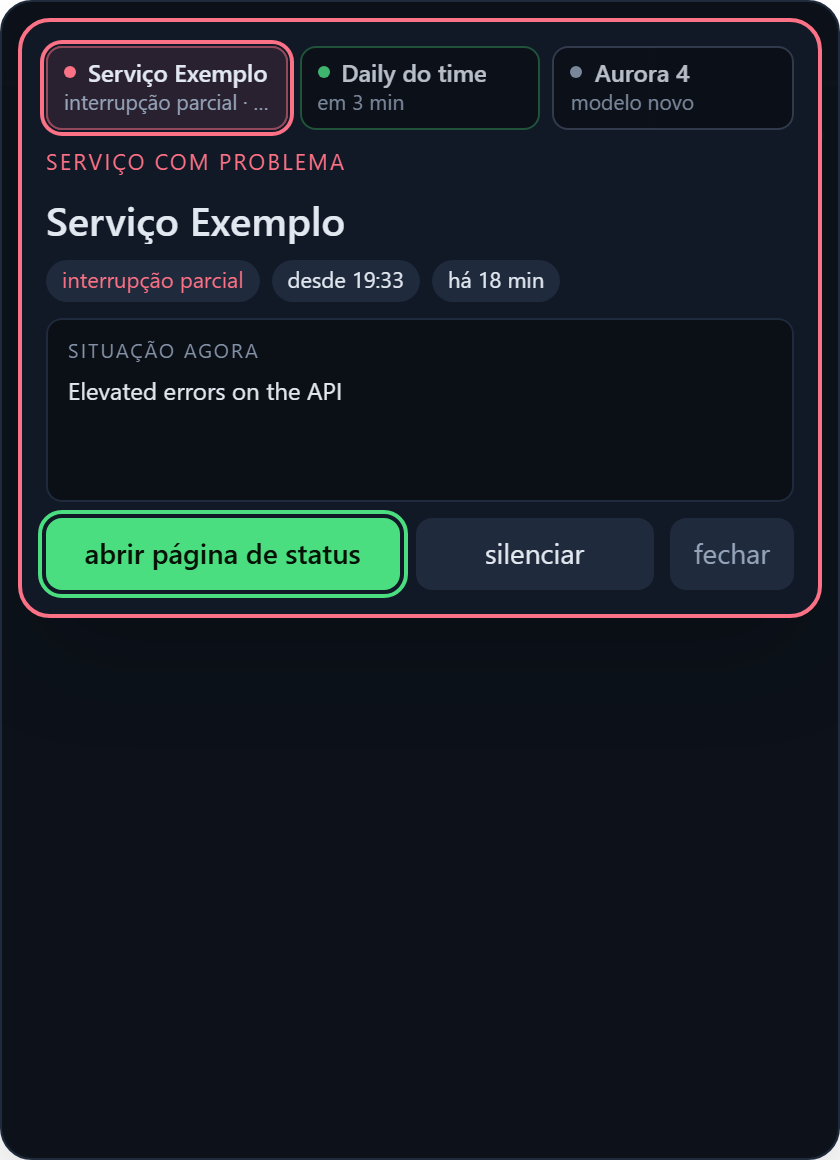
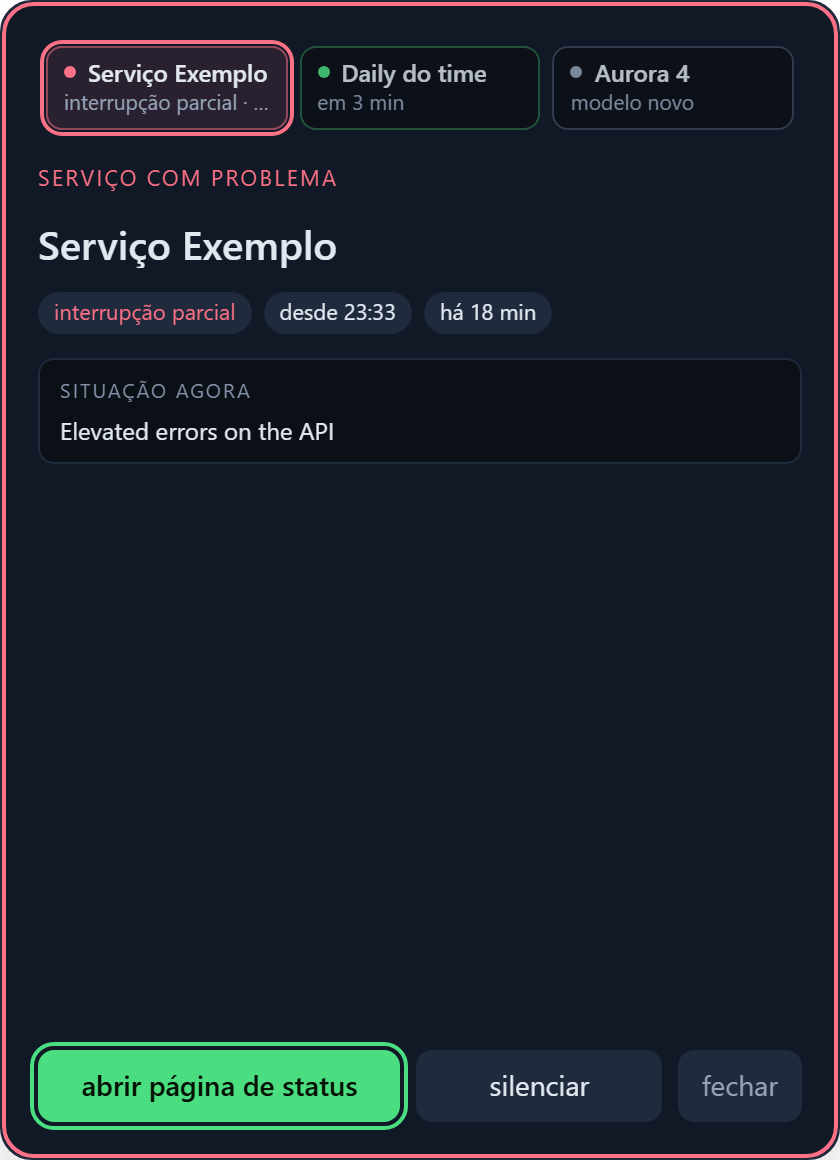
feat(agenda): Meetings as a sub-tab, Day lanes for overlaps, model links, full-size alert popup (#56)
* feat(agenda): move Meetings into the Agenda as a sub-tab beside List and Day

Meetings (Gemini notes and local transcripts) is a view of the same day
the Agenda already covers, and the tab bar was out of room. It is now a
third sub-view of the Agenda, remembered like List/Day; the agenda-only
header and free-time line hide while it is open. The standalone tab and
its i18n key are gone, and the Alt+N shortcuts after it shift by one.

Claude-Session: https://claude.ai/code/session_01WuY79FRLGWaqoBNqVoFE2G

* feat(ui): model rows link out, Day lanes for overlaps, full-size alert popup

- Models: a row opens that model's page on Artificial Analysis (the id
  is the site's own slug).
- Day view: overlapping blocks split the width into lanes instead of
  stacking on top of each other.
- Alert popup: back to covering the widget, keeping the mini-card design.

Claude-Session: https://claude.ai/code/session_01WuY79FRLGWaqoBNqVoFE2G

---------

Changed region(s): [[0.0, 0.0, 1.0, 1.0], [0.8357, 0.4655, 0.9286, 0.4966], [0.5881, 0.4655, 0.681, 0.4966]]

diff --git a/src/components/ModelItem.tsx b/src/components/ModelItem.tsx
@@ -1,5 +1,5 @@
-import type { ModelRow } from "../lib/api";
-import { barWidth, formatPrice, formatScore, formatSpeed } from "../lib/models";
+import { api, type ModelRow } from "../lib/api";
+import { barWidth, formatPrice, formatScore, formatSpeed, modelUrl } from "../lib/models";
 import { t } from "../i18n";
 
 /** One ranked model: the bar is relative to the best score on screen, not to 100. */
@@ -7,31 +7,38 @@ export default function ModelItem({ row, max }: { row: ModelRow; max: number }) 
   const top = row.rank <= 3;
   const score = formatScore(row.score);
   return (
-    <li data-model={row.id} className="flex items-start gap-2 rounded-lg px-1.5 py-1.5 hover:bg-edge/40">
-      <span className={`w-7 shrink-0 pt-px text-right text-[11px] tabular-nums ${top ? "font-bold text-accent" : "text-faint"}`}>
-        #{row.rank}
-      </span>
-      <div className="min-w-0 flex-1">
-        <div className="flex min-w-0 items-center gap-1.5">
-          <span className="truncate text-xs font-semibold text-fg">{row.name}</span>
-          {row.badge && (
-            <span className="shrink-0 rounded-full bg-accent/15 px-1.5 text-[9px] font-semibold tracking-wide text-accent uppercase">
-              {t(`models.badge.${row.badge}`)}
+    <li data-model={row.id}>
+      <button
+        type="button"
+        onClick={() => void api.openLink(modelUrl(row.id))}
+        title={t("models.openTitle", { name: row.name })}
+        className="flex w-full items-start gap-2 rounded-lg px-1.5 py-1.5 text-left hover:bg-edge/40"
+      >
+        <span className={`w-7 shrink-0 pt-px text-right text-[11px] tabular-nums ${top ? "font-bold text-accent" : "text-faint"}`}>
+          #{row.rank}
+        </span>
+        <div className="min-w-0 flex-1">
+          <div className="flex min-w-0 items-center gap-1.5">
+            <span className="truncate text-xs font-semibold text-fg">{row.name}</span>
+            {row.badge && (
+              <span className="shrink-0 rounded-full bg-accent/15 px-1.5 text-[9px] font-semibold tracking-wide text-accent uppercase">
+                {t(`models.badge.${row.badge}`)}
+              </span>
+            )}
+            <span className="ml-auto shrink-0 text-xs font-semibold tabular-nums text-fg" title={t("models.scoreTitle", { score })}>
+              {score}
             </span>
-          )}
-          <span className="ml-auto shrink-0 text-xs font-semibold tabular-nums text-fg" title={t("models.scoreTitle", { score })}>
-            {score}
-          </span>
+          </div>
+          {row.creator && <div className="truncate text-[10px] text-faint">{row.creator}</div>}
+          <div aria-hidden="true" className="mt-1 h-1 overflow-hidden rounded-full bg-edge">
+            <div className={`h-full rounded-full ${top ? "bg-accent" : "bg-muted/60"}`} style={{ width: `${barWidth(row.score, max)}%` }} />
+          </div>
+          <div className="mt-0.5 flex gap-2 text-[10px] text-muted tabular-nums">
+            <span>{row.price === null ? t("models.noPrice") : t("models.price", { price: formatPrice(row.price) })}</span>
+            {row.speed !== null && <span>{t("models.speed", { n: formatSpeed(row.speed) })}</span>}
+          </div>
         </div>
-        {row.creator && <div className="truncate text-[10px] text-faint">{row.creator}</div>}
-        <div aria-hidden="true" className="mt-1 h-1 overflow-hidden rounded-full bg-edge">
-          <div className={`h-full rounded-full ${top ? "bg-accent" : "bg-muted/60"}`} style={{ width: `${barWidth(row.score, max)}%` }} />
-        </div>
-        <div className="mt-0.5 flex gap-2 text-[10px] text-muted tabular-nums">
-          <span>{row.price === null ? t("models.noPrice") : t("models.price", { price: formatPrice(row.price) })}</span>
-          {row.speed !== null && <span>{t("models.speed", { n: formatSpeed(row.speed) })}</span>}
-        </div>
-      </div>
+      </button>
     </li>
   );
 }

diff --git a/src/components/AgendaTab.tsx b/src/components/AgendaTab.tsx
@@ -6,9 +6,13 @@ import { conflicts, freeLabel, nextFree } from "../lib/agendaFree";
 import Skeleton from "./Skeleton";
 import type { Agenda } from "../lib/useAgenda";
 import DayPlan from "./DayPlan";
+import TranscriptsTab from "./TranscriptsTab";
 import { readView, saveView, type AgendaView } from "../lib/agendaView";
 
 const systemNow = () => new Date();
+
+const VIEWS: AgendaView[] = ["list", "day", "meetings"];
+const LABEL = { list: "plan.viewList", day: "plan.viewDay", meetings: "plan.viewMeetings" } as const;
 
 /// Synthetic event so the user can check the pop-up and sound without waiting for a meeting.
 function testEvent(): AgendaItem {
@@ -79,29 +83,8 @@ export default function AgendaTab({
 
   return (
     <div className="flex h-full flex-col gap-2">
-      <div className="flex items-center justify-between text-[11px] text-faint">
-        <span>{t("agenda.header")}</span>
-        <span className="flex gap-3">
-          <button
-            type="button"
-            title={t("agenda.testAlertTitle")}
-            onClick={() => void api.alertOpen(testEvent()).catch((e) => onError(errText(e)))}
-            className="min-h-6 underline decoration-dotted hover:text-muted"
-          >
-            {t("agenda.testAlert")}
-          </button>
-          <button
-            type="button"
-            onClick={() => void reload()}
-            className="min-h-6 underline decoration-dotted hover:text-muted"
-          >
-            {loading ? "..." : t("agenda.refresh")}
-          </button>
-        </span>
-      </div>
-
       <div role="group" aria-label={t("plan.viewLabel")} className="flex self-start overflow-hidden rounded-lg border border-edge text-xs">
-        {(["list", "day"] as const).map((v) => (
+        {VIEWS.map((v) => (
           <button
             key={v}
             type="button"
@@ -109,18 +92,45 @@ export default function AgendaTab({
             onClick={() => pick(v)}
             className={`min-h-6 px-3 ${view === v ? "bg-edge font-semibold text-accent" : "text-muted hover:text-fg"}`}
           >
-            {t(v === "list" ? "plan.viewList" : "plan.viewDay")}
+            {t(LABEL[v])}
           </button>
         ))}
       </div>
 
-      {items.length > 0 && (
+      {view !== "meetings" && (
+        <div className="flex items-center justify-between text-[11px] text-faint">
+          <span>{t("agenda.header")}</span>
+          <span className="flex gap-3">
+            <button
+              type="button"
+              title={t("agenda.testAlertTitle")}
+              onClick={() => void api.alertOpen(testEvent()).catch((e) => onError(errText(e)))}
+              className="min-h-6 underline decoration-dotted hover:text-muted"
+            >
+              {t("agenda.testAlert")}
+            </button>
+            <button
+              type="button"
+              onClick={() => void reload()}
+              className="min-h-6 underline decoration-dotted hover:text-muted"
+            >
+              {loading ? "..." : t("agenda.refresh")}
+            </button>
+          </span>
+        </div>
+      )}
+
+      {view !== "meetings" && items.length > 0 && (
         <p role="status" className="rounded-md bg-edge/60 px-2 py-1 text-[11px] font-medium text-muted">
           {freeLabel(nextFree(items, at), at)}
         </p>
       )}
 
-      {view === "day" ? (
+      {view === "meetings" ? (
+        <div className="min-h-0 flex-1">
+          <TranscriptsTab onError={onError} />
+        </div>
+      ) : view === "day" ? (
         <DayPlan agenda={items} tasks={tasks} now={at} onSchedule={schedule} />
       ) : (
         <ul className="flex-1 space-y-2 overflow-y-auto pr-1">

diff --git a/src/lib/dayPlan.ts b/src/lib/dayPlan.ts
@@ -13,6 +13,9 @@ export type PlanBlock = {
   end: number;
   kind: "event" | "task";
   clash: boolean;
+  /** Side-by-side slot among the blocks it overlaps; `lanes` is how many share the width. */
+  lane: number;
+  lanes: number;
 };
 
 const minuteOf = (d: Date) => d.getHours() * 60 + d.getMinutes();
@@ -26,7 +29,7 @@ function eventBlocks(agenda: AgendaItem[]): PlanBlock[] {
       if (Number.isNaN(s.getTime()) || Number.isNaN(f.getTime()) || f <= s) return [];
       const start = minuteOf(s);
       const end = f.getDate() === s.getDate() ? minuteOf(f) : DAY_END;
-      return end > start ? [{ id: e.id, title: e.title, start, end, kind: "event" as const, clash: false }] : [];
+      return end > start ? [{ id: e.id, title: e.title, start, end, kind: "event" as const, clash: false, lane: 0, lanes: 1 }] : [];
     });
 }
 
@@ -40,19 +43,44 @@ function taskBlocks(tasks: Task[]): PlanBlock[] {
     const start = task.done || !task.hora ? null : taskStart(task.hora);
     if (start === null) return [];
     const end = Math.min(DAY_END, start + (task.estimate_min ?? DEFAULT_TASK_MIN));
-    return [{ id: task.id, title: task.title, start, end, kind: "task" as const, clash: false }];
+    return [{ id: task.id, title: task.title, start, end, kind: "task" as const, clash: false, lane: 0, lanes: 1 }];
   });
 }
 
 const overlaps = (a: PlanBlock, b: PlanBlock) => a.start < b.end && b.start < a.end;
 
+/** Blocks that overlap (even through a chain) split the width: each takes the first free lane. */
+function withLanes(sorted: PlanBlock[]): PlanBlock[] {
+  const out: PlanBlock[] = [];
+  let cluster: PlanBlock[] = [];
+  let laneEnds: number[] = [];
+  let clusterEnd = -1;
+  const close = () => {
+    cluster.forEach((b) => out.push({ ...b, lanes: laneEnds.length }));
+    cluster = [];
+    laneEnds = [];
+  };
+  for (const b of sorted) {
+    if (b.start >= clusterEnd) close();
+    let lane = laneEnds.findIndex((end) => end <= b.start);
+    if (lane === -1) lane = laneEnds.length;
+    laneEnds[lane] = b.end;
+    cluster.push({ ...b, lane });
+    clusterEnd = cluster.length === 1 ? b.end : Math.max(clusterEnd, b.end);
+  }
+  close();
+  return out;
+}
+
 /** A task clashes with anything else on the day; two events overlapping is the agenda's own conflict badge. */
 export function dayBlocks(agenda: AgendaItem[], tasks: Task[]): PlanBlock[] {
   const all = [...eventBlocks(agenda), ...taskBlocks(tasks)].sort((a, b) => a.start - b.start || a.end - b.end);
-  return all.map((b) => ({
-    ...b,
-    clash: b.kind === "task" && all.some((o) => o.id !== b.id && overlaps(b, o)),
-  }));
+  return withLanes(
+    all.map((b) => ({
+      ...b,
+      clash: b.kind === "task" && all.some((o) => o.id !== b.id && overlaps(b, o)),
+    })),
+  );
 }
 
 /** Open tasks with no time: candidates for a free slot. */

diff --git a/src/components/AgendaDay.test.tsx b/src/components/AgendaDay.test.tsx
@@ -58,3 +58,29 @@ test("clicking an open task books it in the first free slot", async () => {
   const call = calls.find((c) => c.cmd === "task_set_schedule");
   expect(call?.args).toEqual({ id: "Escrever changelog", time: "09:45", repeat: null });
 });
+
+test("Reuniões is a sub-view next to Lista and Dia: it swaps the agenda header for the transcripts and is remembered", async () => {
+  render(<AgendaTab agenda={agenda([daily])} today="2026-09-30" now={now} onError={() => {}} />);
+  expect(screen.getByText(/agenda de hoje/)).toBeTruthy();
+
+  await act(async () => {
+    fireEvent.click(screen.getByRole("button", { name: "Reuniões" }));
+  });
+
+  expect(screen.getByRole("button", { name: "Reuniões" }).getAttribute("aria-pressed")).toBe("true");
+  expect(screen.queryByText(/agenda de hoje/)).toBeNull();
+  expect(screen.queryByText("Daily do time")).toBeNull();
+  expect(screen.getByPlaceholderText(/buscar/i), "the transcripts search is what the sub-view shows").toBeTruthy();
+  expect(localStorage.getItem("canto.agendaView")).toBe("meetings");
+});
+
+test("a saved Reuniões choice reopens on it, and an unknown saved value falls back to the list", () => {
+  localStorage.setItem("canto.agendaView", "meetings");
+  render(<AgendaTab agenda={agenda([daily])} today="2026-09-30" now={now} onError={() => {}} />);
+  expect(screen.getByRole("button", { name: "Reuniões" }).getAttribute("aria-pressed")).toBe("true");
+  cleanup();
+
+  localStorage.setItem("canto.agendaView", "weekly");
+  render(<AgendaTab agenda={agenda([daily])} today="2026-09-30" now={now} onError={() => {}} />);
+  expect(screen.getByRole("button", { name: "Lista" }).getAttribute("aria-pressed")).toBe("true");
+});

diff --git a/src/lib/dayPlan.test.ts b/src/lib/dayPlan.test.ts
@@ -57,3 +57,27 @@ test("time helpers round-trip", () => {
   expect(taskStart("9:05")).toBeNull();
   expect(hhmm(545)).toBe("09:05");
 });
+
+test("overlapping blocks take side-by-side lanes; a block alone keeps the full width", () => {
+  const blocks = dayBlocks(
+    [event("a", at(9), at(10)), event("b", at(9, 30), at(10, 30)), event("sozinha", at(12), at(13))],
+    [task("t", { hora: "09:45", estimate_min: 15 })],
+  );
+  const by = Object.fromEntries(blocks.map((b) => [b.id, [b.lane, b.lanes]]));
+  expect(by.a).toEqual([0, 3]);
+  expect(by.b).toEqual([1, 3]);
+  expect(by.t).toEqual([2, 3]);
+  expect(by.sozinha).toEqual([0, 1]);
+});
+
+test("a freed lane is reused, and a chain of overlaps shares one cluster", () => {
+  const blocks = dayBlocks([event("a", at(9), at(10)), event("b", at(9, 30), at(11)), event("c", at(10), at(10, 30))], []);
+  const by = Object.fromEntries(blocks.map((b) => [b.id, [b.lane, b.lanes]]));
+  // c starts when a ends, so it takes a's lane instead of opening a third one.
+  expect(by).toEqual({ a: [0, 2], b: [1, 2], c: [0, 2] });
+});
+
+test("back-to-back blocks do not share a lane cluster", () => {
+  const blocks = dayBlocks([event("a", at(9), at(10)), event("b", at(10), at(11))], []);
+  expect(blocks.map((b) => [b.lane, b.lanes])).toEqual([[0, 1], [0, 1]]);
+});

diff --git a/src/components/DayPlan.tsx b/src/components/DayPlan.tsx
@@ -62,10 +62,16 @@ export default function DayPlan({ agenda, tasks, now, onSchedule }: Props) {
             {blocks.map((b) => (
               <div
                 key={`${b.kind}-${b.id}`}
-                className={`absolute inset-x-0.5 overflow-hidden rounded-md border-l-2 px-2 py-0.5 text-xs ${
+                className={`absolute overflow-hidden rounded-md border-l-2 px-2 py-0.5 text-xs ${
                   b.kind === "event" ? "border-sky-400 bg-sky-500/15" : "border border-dashed border-accent border-l-2 bg-panel"
                 } ${b.clash ? "ring-1 ring-danger" : ""}`}
-                style={{ top: px(b.start), height: Math.max(MIN_BLOCK_PX, px(b.end) - px(b.start) - 2) }}
+                style={{
+                  top: px(b.start),
+                  height: Math.max(MIN_BLOCK_PX, px(b.end) - px(b.start) - 2),
+                  left: `calc(${(b.lane / b.lanes) * 100}% + 2px)`,
+                  width: `calc(${100 / b.lanes}% - 4px)`,
+                }}
+                title={`${b.title} ${hhmm(b.start)}–${hhmm(b.end)}`}
               >
                 <span className="block truncate text-fg">{b.title}</span>
                 <span className="block truncate text-[10px] text-muted">

diff --git a/src/lib/tabs.test.tsx b/src/lib/tabs.test.tsx
@@ -18,7 +18,7 @@ test("saved data that isn't a list of known tabs is ignored, and Ajustes can nev
 
 test("hidden tabs leave the bar; the order of the rest is kept", () => {
   const ids = visibleTabs(["notes", "gitlab"]).map((t) => t.id);
-  expect(ids).toEqual(["tasks", "clipboard", "meetings", "agenda", "github", "status", "models", "activity", "settings"]);
+  expect(ids).toEqual(["tasks", "clipboard", "agenda", "github", "status", "models", "activity", "settings"]);
 });
 
 test("a tab hidden by default also starts hidden for someone who saved a choice before it existed; AI models is visible", () => {
@@ -37,7 +37,7 @@ function Harness({ start }: { start: Tab[] }) {
 }
 
 test("unchecking hides a tab and the last visible one can't be unchecked", () => {
-  render(<Harness start={["notes", "clipboard", "meetings", "agenda", "github", "status", "models", "activity"]} />);
+  render(<Harness start={["notes", "clipboard", "agenda", "github", "status", "models", "activity"]} />);
   const gitlab = screen.getByLabelText("GitLab") as HTMLInputElement;
   const tasks = screen.getByLabelText("Tarefas") as HTMLInputElement;
   expect(tasks.disabled).toBe(false);

diff --git a/src/components/Alert.tsx b/src/components/Alert.tsx
@@ -69,12 +69,12 @@ export default function Alert({ events, onDismiss, onCompleted, onOpenModels }: 
   const label = t("alert.dialogLabel", { kind: t(`alert.kind.${kindOf(event)}`), title: event.title });
 
   return (
-    <div className="absolute inset-0 z-50 flex items-start bg-ink/70 p-2 backdrop-blur-[1px]">
+    <div className="absolute inset-0 z-50 flex">
       <div
         role="alertdialog"
         aria-modal="true"
         aria-label={label}
-        className={`flex max-h-[min(440px,100%)] min-h-[300px] w-full flex-col gap-2 overflow-hidden rounded-2xl border-2 bg-panel p-3 text-fg shadow-2xl motion-safe:animate-surgir motion-reduce:animate-fade ${TONE[toneOf(event)].border}`}
+        className={`flex h-full w-full flex-col gap-3 overflow-hidden rounded-2xl border-2 bg-panel p-4 text-fg shadow-2xl motion-safe:animate-surgir motion-reduce:animate-fade ${TONE[toneOf(event)].border}`}
       >
         {items.length > 1 && <AlertStrip items={items} selected={event.id} onSelect={setPicked} />}
         <AlertDetail event={event} />

diff --git a/src/App.tsx b/src/App.tsx
@@ -22,7 +22,6 @@ import TasksTab from "./components/TasksTab";
 import NotesTab from "./components/NotesTab";
 import SettingsTab from "./components/SettingsTab";
 import ClipboardTab from "./components/ClipboardTab";
-import TranscriptsTab from "./components/TranscriptsTab";
 import AgendaTab from "./components/AgendaTab";
 import GithubTab from "./components/GithubTab";
 import GitlabTab from "./components/GitlabTab";
@@ -342,7 +341,6 @@ function Canto() {
             {tab === "clipboard" && (
               <ClipboardTab privacy={privacy} initialQuery={jumpQuery} querySeq={jumpSeq} onError={setError} />
             )}
-            {tab === "meetings" && <TranscriptsTab onError={setError} />}
             {tab === "agenda" && <AgendaTab agenda={agenda} today={today} version={tasksVersion} onError={setError} />}
             {tab === "github" && <GithubTab onError={setError} />}
             {tab === "gitlab" && <GitlabTab onError={setError} />}

diff --git a/src/components/TabBar.tsx b/src/components/TabBar.tsx
@@ -2,13 +2,12 @@ import { useRef } from "react";
 import { t } from "../i18n";
 
 export type Tab =
-  | "tasks" | "notes" | "clipboard" | "meetings" | "agenda" | "github" | "gitlab" | "status" | "models" | "activity" | "settings";
+  | "tasks" | "notes" | "clipboard" | "agenda" | "github" | "gitlab" | "status" | "models" | "activity" | "settings";
 
 export const TABS: { id: Tab; label: string }[] = [
   { id: "tasks", label: t("tabs.tasks") },
   { id: "notes", label: t("tabs.notes") },
   { id: "clipboard", label: t("tabs.clipboard") },
-  { id: "meetings", label: t("tabs.meetings") },
   { id: "agenda", label: t("tabs.agenda") },
   { id: "github", label: "GitHub" },
   { id: "gitlab", label: "GitLab" },

diff --git a/src/components/AlertDetail.tsx b/src/components/AlertDetail.tsx
@@ -52,7 +52,7 @@ export default function AlertDetail({ event }: { event: AgendaItem }) {
           </>
         )}
       </div>
-      <div className={`grid min-h-0 flex-1 gap-2.5 ${kind === "meeting" ? "grid-cols-[1.25fr_1fr]" : "grid-cols-1"}`}>
+      <div className={`grid min-h-0 flex-1 content-start gap-2.5 ${kind === "meeting" ? "grid-cols-[1.25fr_1fr]" : "grid-cols-1"}`}>
         <Box label={kind === "status" ? t("alert.nowSituation") : t("alert.details")}>
           {event.description && <p className="line-clamp-4 whitespace-pre-line text-xs text-fg">{event.description}</p>}
           {event.location && <p className="mt-1 line-clamp-2 text-xs text-muted">{event.location}</p>}

diff --git a/e2e/layout.e2e.ts b/e2e/layout.e2e.ts
@@ -2,7 +2,7 @@ import { expect, test, type Page } from "@playwright/test";
 import { mockTauri } from "./mock";
 
 const LONG = "Revisar a proposta comercial do cliente fictício com os novos prazos de entrega e o cronograma de testes";
-const TABS = ["Tarefas", "Notas", "Clipboard", "Reuniões", "Agenda", "GitHub", "Status API", "Ajustes"];
+const TABS = ["Tarefas", "Notas", "Clipboard", "Agenda", "GitHub", "Status API", "Ajustes"];
 
 /** A task carrying every row badge (time, ↻, subtasks, PR): the widest row the list can get. */
 async function seedBusyTask(page: Page) {
